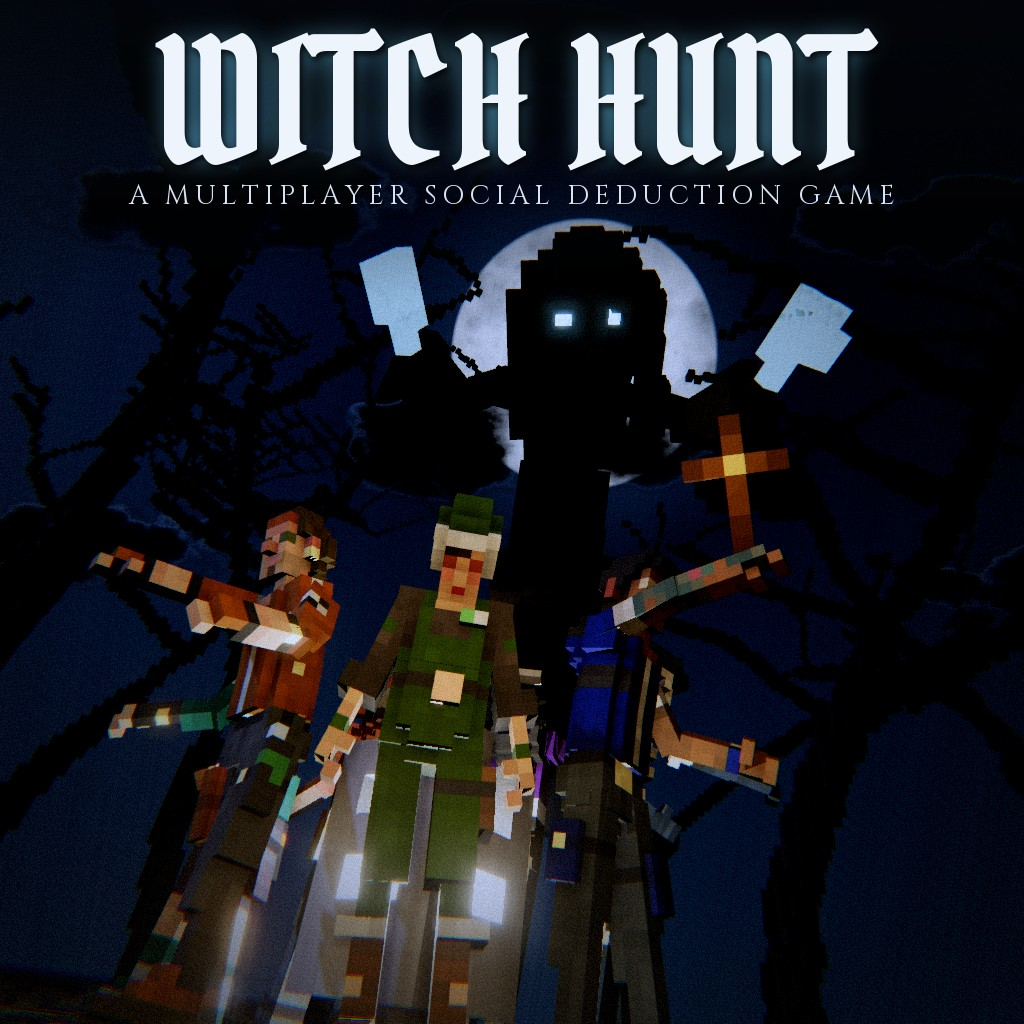
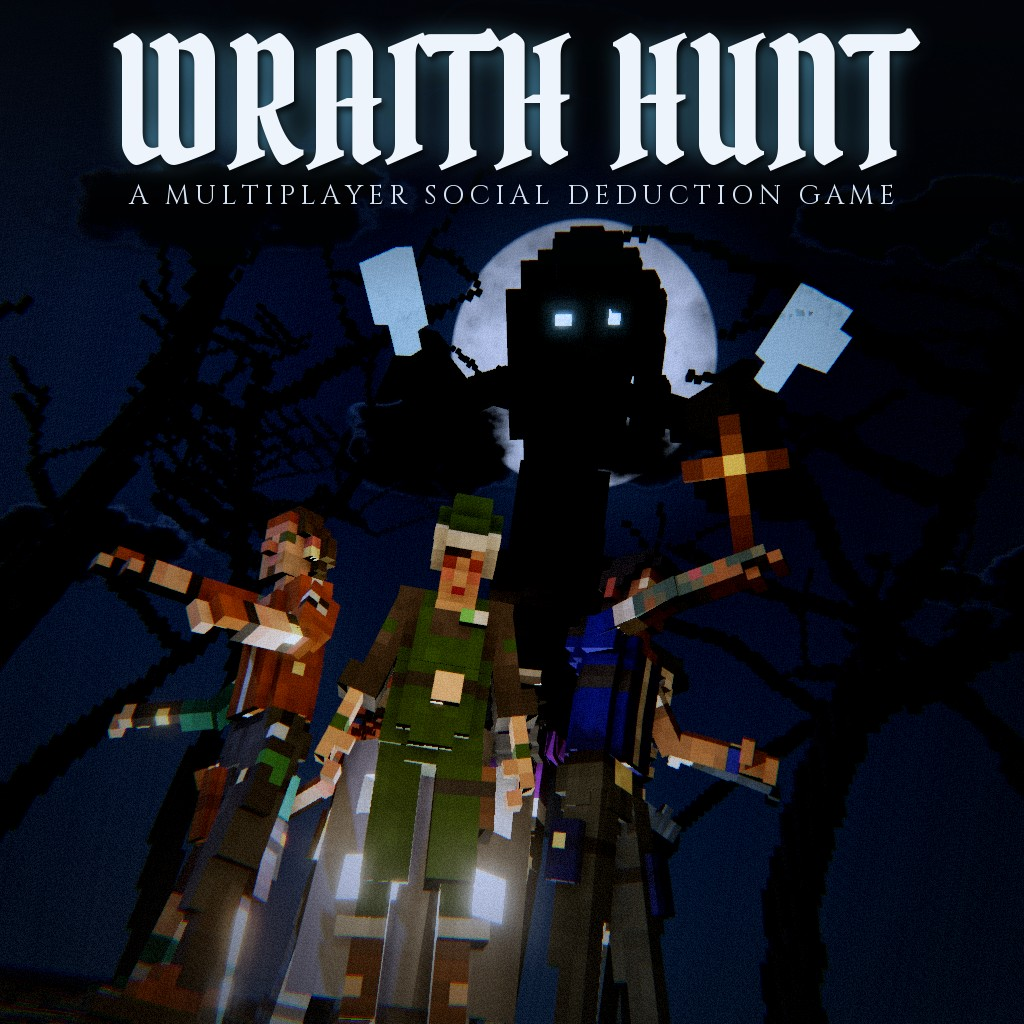
Update (8d18989)

Changed region(s): [[0.0938, 0.0, 0.9062, 0.1875]]

diff --git a/README.md b/README.md
@@ -1,39 +1,42 @@
-# Witch Hunt
+# Wraith Hunt
 
 A multiplayer social deduction game mode for [Teardown](https://teardowngame.com). Some of the players are secretly
-witches, and they don't even know each other. Find them before they pick you off.
+wraiths in human form, and they don't even know each other. Find them before they pick you off.
 
 ## How to play
 
-- Pick **Witch Hunt** as the game mode on any map. The host chooses the number of witches, the round time, the amount
+- Pick **Wraith Hunt** as the game mode on any map. The host chooses the number of wraiths, the round time, the amount
   of items and the time of day.
-- At least 3 players. At most a third of them can be witches.
+- At least 3 players. At most a third of them can be wraiths.
 - Everyone is told their role in secret when the round starts. Everyone starts together near the middle of the map.
 - When someone dies, everyone is told 4 seconds later, but not who or which side. The bodies keep their names.
 - The lobby explains the rules. During a round, hold **L** to see your own side's rules and the players.
 
 ### Humans
 
-- Win by killing all the witches, or by preventing them from killing anyone before the time runs out.
-- **Fire reveals a witch:** after 3 seconds in fire she is forced out of her human shape.
-- **Journals** lie around the map. Each one says one thing, who is a witch or who is a human, and only to the person
+- Win by killing all the wraiths, or by preventing them from killing anyone before the time runs out.
+- **Fire reveals a wraith:** after 2 seconds in fire she is forced out of human form into wraith form.
+- **Journals** lie around the map. Each one says one thing, who is a wraith or who is a human, and only to the person
   reading it. Put it down and it crumbles to ash.
 
-### Witches
+### Wraiths
 
 - Kill every human, or kill at least one and survive until the time runs out.
-- **Q: spirit form.** A white spirit for 15 seconds, then 60 seconds to recover. Fly with Space and Crouch, strike with
+- **Q: wraith form.** You leave human form for 15 seconds, then 60 seconds to recover. Fly with Space and Crouch, strike with
   LMB: three strikes kill. Bullets and blades pass through you; fire doesn't.
-- Other witches see your name while you're a spirit. Humans don't.
+- Other wraiths see your name in wraith form. Humans don't.
 - Don't touch a holy cross.
 
 ### Items
 
 - **Pistol**, **knife**, or your bare hands if you have to.
-- **Flamethrower**: enough fuel for about two witches.
-- **Holy cross**: hold it up at a spirit to freeze her in the air.
+- **Flamethrower**: enough fuel for about two wraiths.
+- **Holy cross**: hold it up at a wraith in wraith form to freeze her in the air. It works twice, then cracks.
 - **Sensor**: shows where everyone is for a few seconds.
-- **Medkit**, **walkie-talkie**, **speakerphone**.
+- **Medkit**: hold LMB for 5 seconds to heal yourself, or RMB to heal the player in front of you. You crouch and can't move while you apply it.
+- **Walkie-talkie**: everyone with one hears it, in hand or not. While it's in your hand, what you say or type goes
+  through it; RMB switches it off and on.
+- **Speakerphone**: while it's in your hand, your voice carries far; RMB switches it off and on.
 
 E picks up, G drops.
 
@@ -41,11 +44,11 @@ E picks up, G drops.
 
 Walkie-talkies, the speakerphone and pings need the
 [Proximity Comms](https://github.com/AgeOfAlgorithms/teardown-prox-text-chat-mod) mod, enabled by the host. The dead
-talk only to each other. A ping reaches as far as your talk mode, and a spirit's pin shows no name.
+talk only to each other. A ping reaches as far as your talk mode, and a pin from a wraith in wraith form shows no name.
 
 ## Install
 
-Subscribe on the Steam Workshop, or clone this repository into `Documents/Teardown/mods/witch hunt`. Online play needs
+Subscribe on the Steam Workshop, or clone this repository into `Documents/Teardown/mods/wraith hunt`. Online play needs
 the Workshop version: Teardown's multiplayer only allows published mods.
 
 ## Credits
